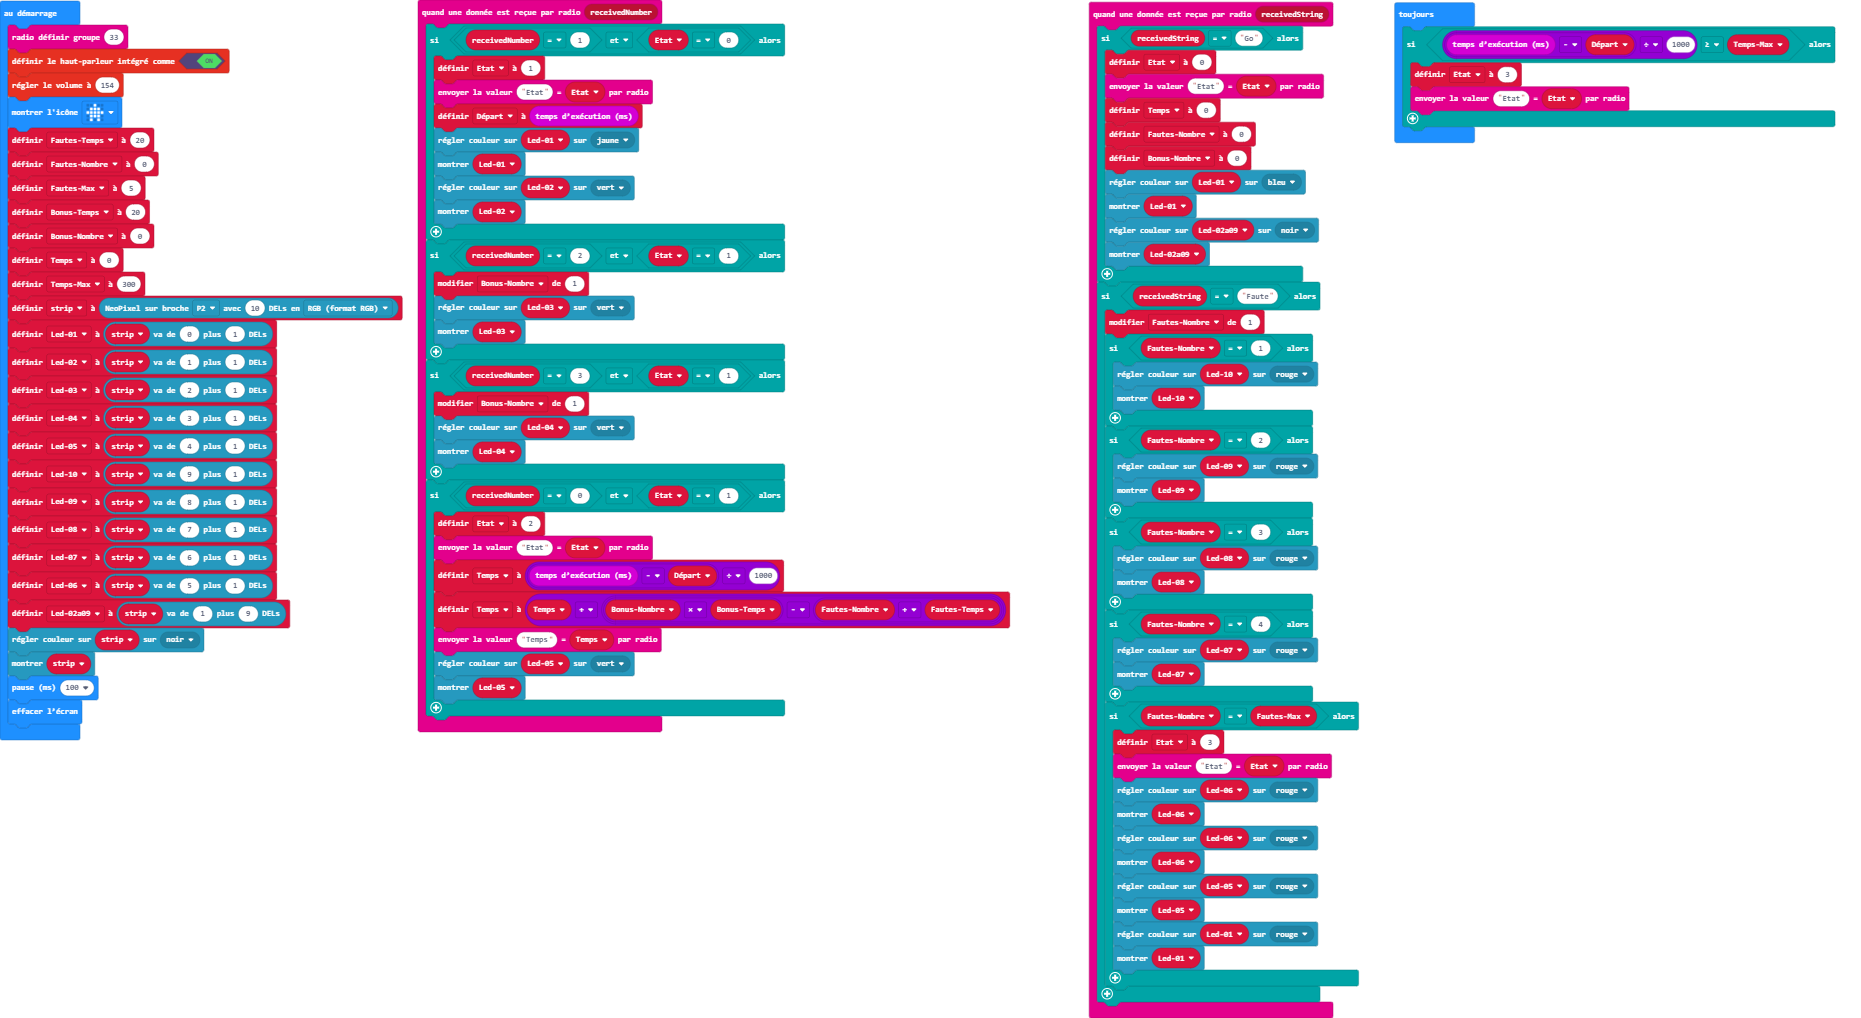
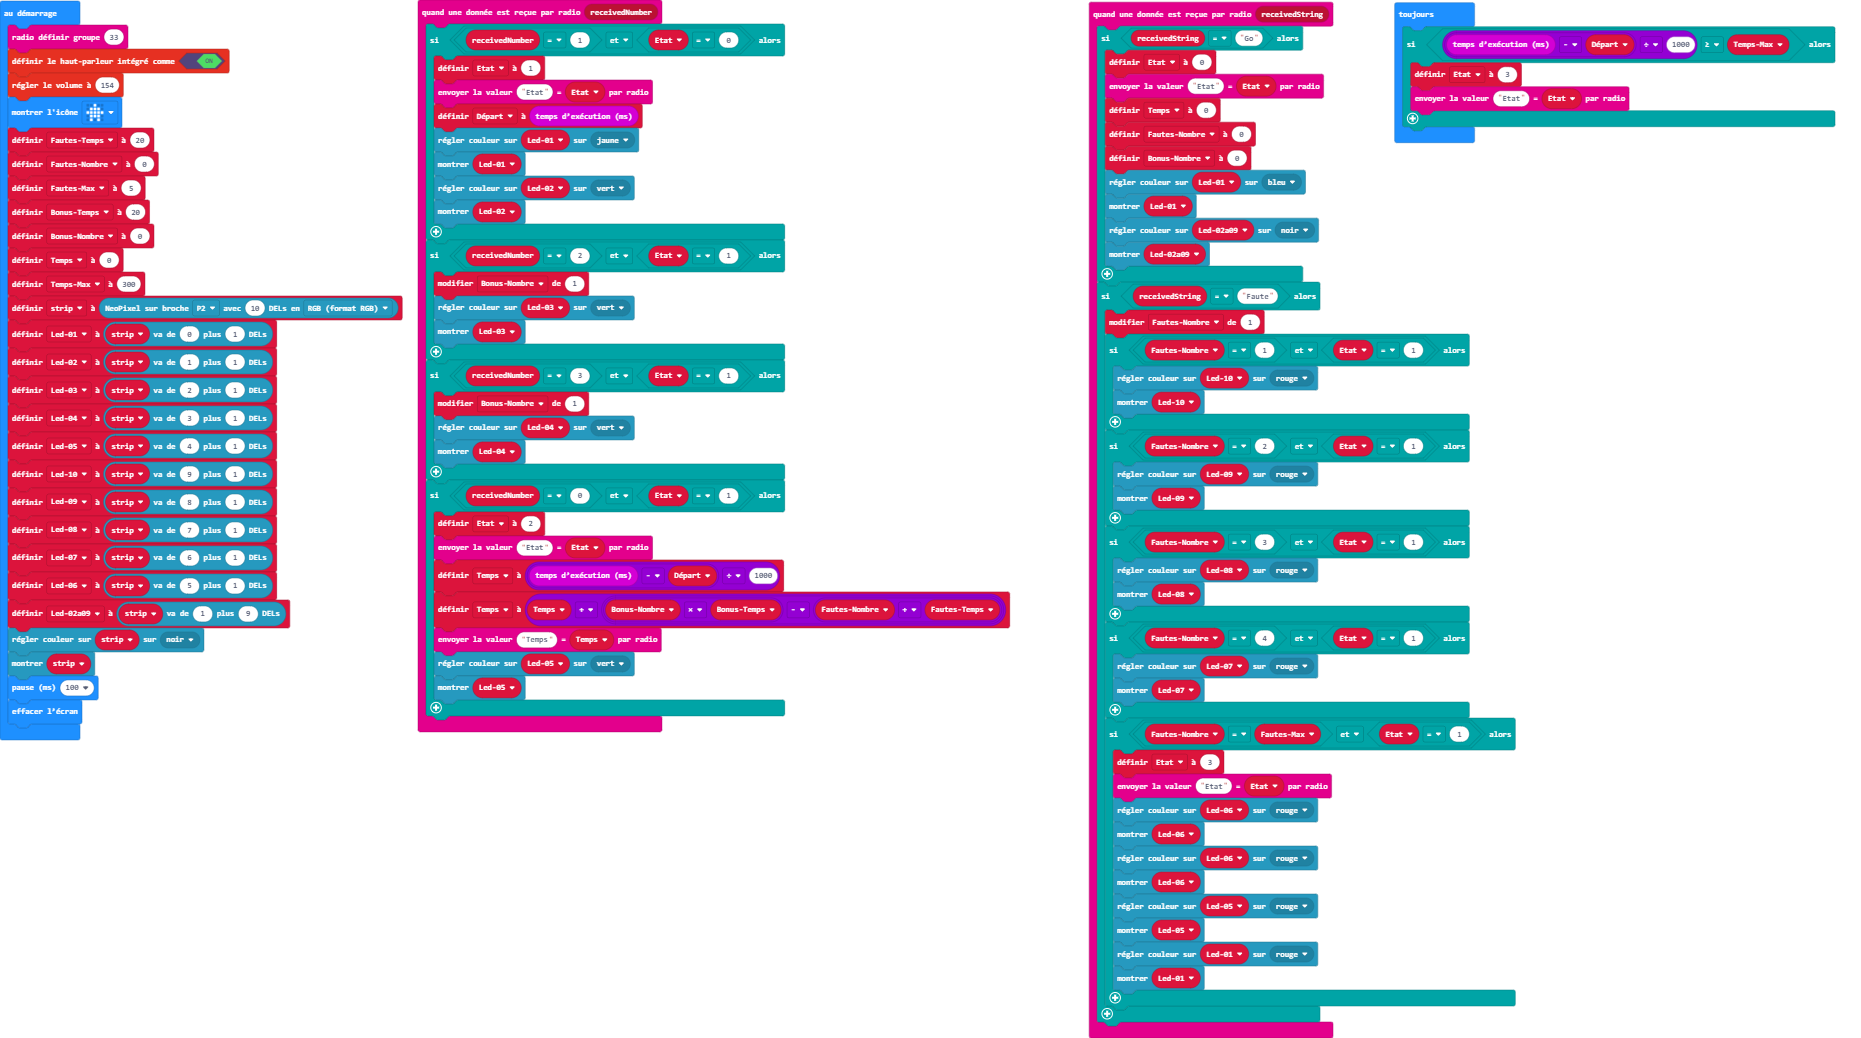
Mise à jour main.blocks, main.ts

diff --git a/main.ts b/main.ts
@@ -42,23 +42,23 @@ radio.onReceivedString(function (receivedString) {
     }
     if (receivedString == "Faute") {
         FautesNombre += 1
-        if (FautesNombre == 1) {
+        if (FautesNombre == 1 && Etat == 1) {
             Led10.showColor(neopixel.colors(NeoPixelColors.Red))
             Led10.show()
         }
-        if (FautesNombre == 2) {
+        if (FautesNombre == 2 && Etat == 1) {
             Led09.showColor(neopixel.colors(NeoPixelColors.Red))
             Led09.show()
         }
-        if (FautesNombre == 3) {
+        if (FautesNombre == 3 && Etat == 1) {
             Led08.showColor(neopixel.colors(NeoPixelColors.Red))
             Led08.show()
         }
-        if (FautesNombre == 4) {
+        if (FautesNombre == 4 && Etat == 1) {
             Led07.showColor(neopixel.colors(NeoPixelColors.Red))
             Led07.show()
         }
-        if (FautesNombre == FautesMax) {
+        if (FautesNombre == FautesMax && Etat == 1) {
             Etat = 3
             radio.sendValue("Etat", Etat)
             Led06.showColor(neopixel.colors(NeoPixelColors.Red))
